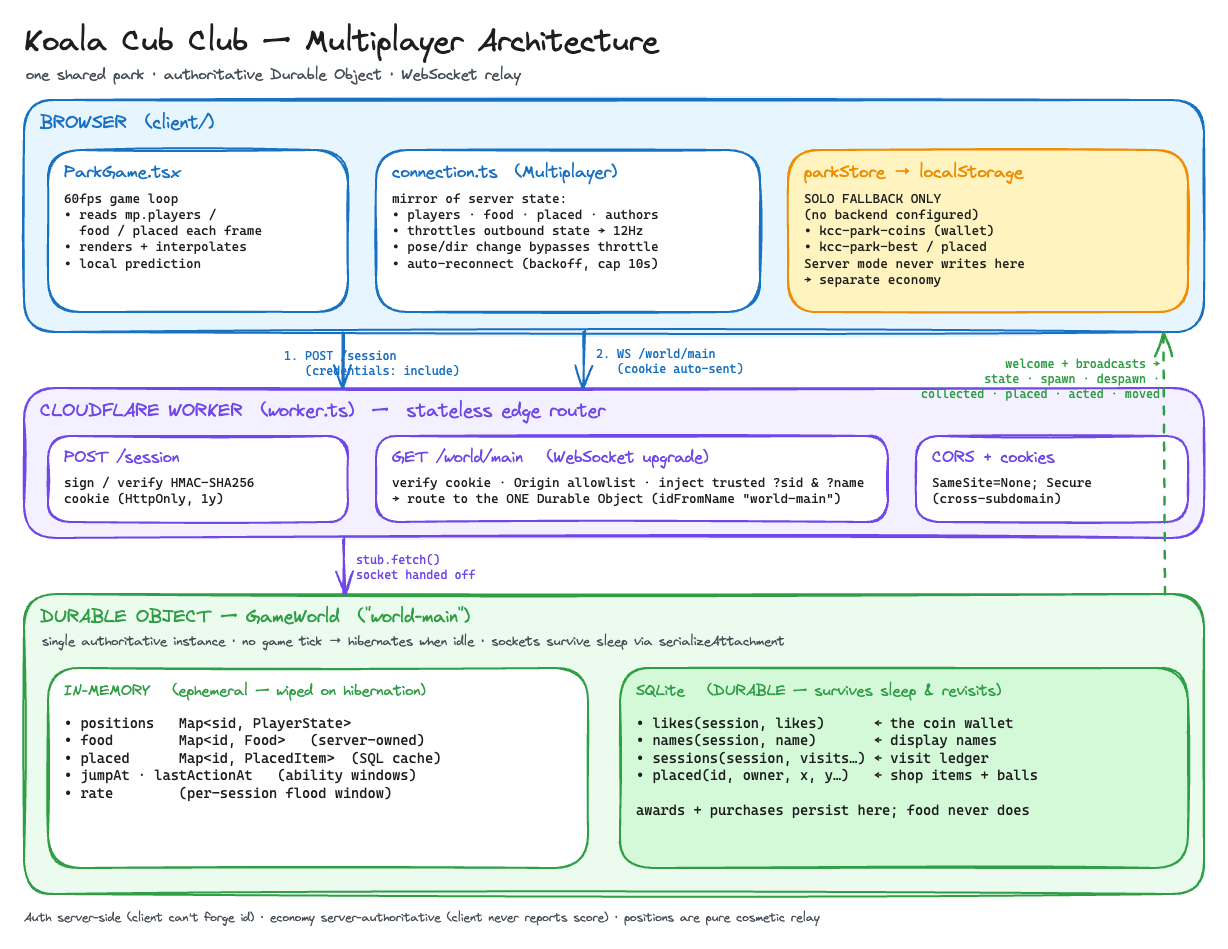
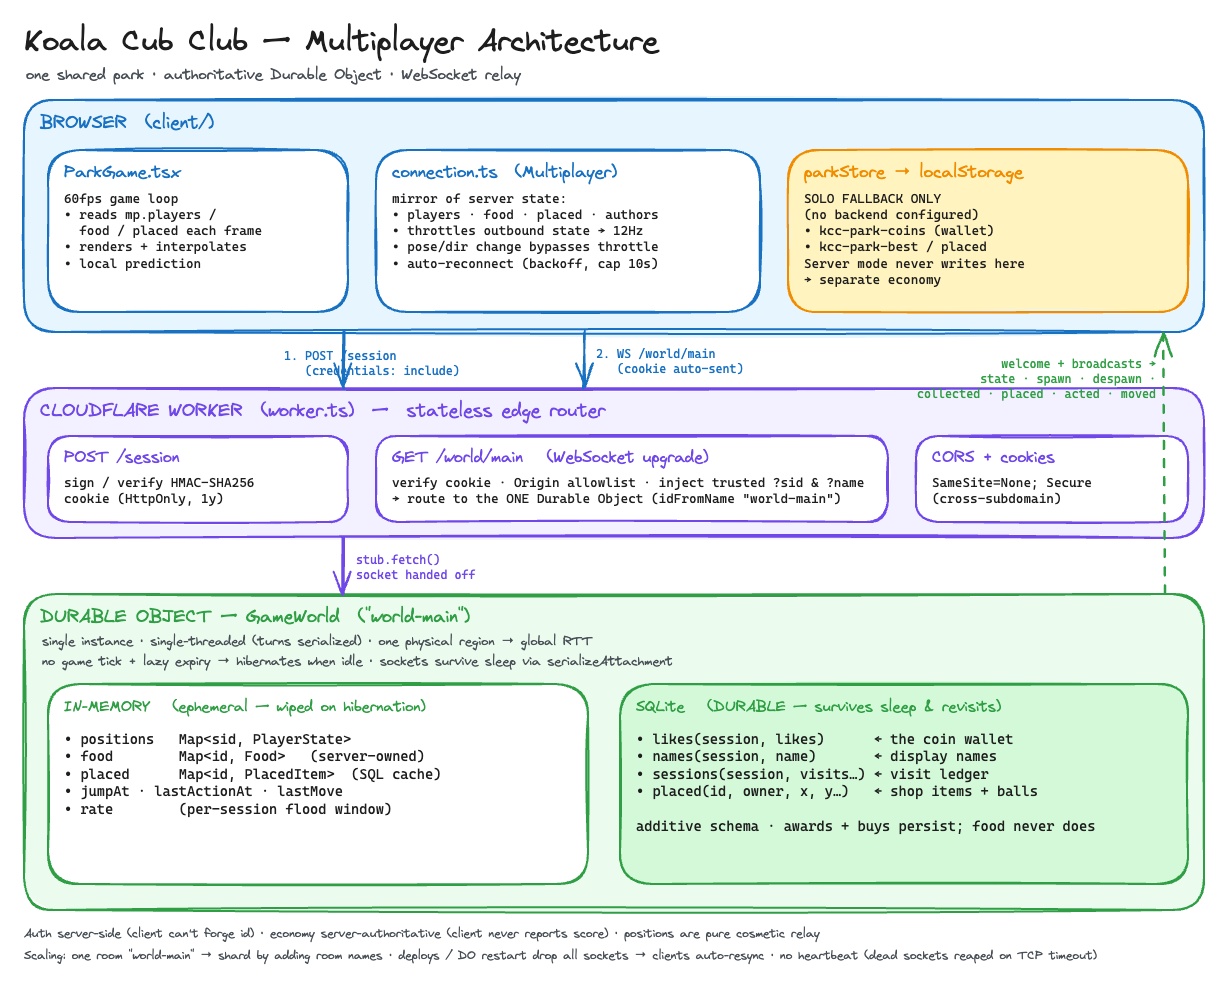
docs(multiplayer): capture operational notes + refresh diagram
Add operational notes and the remaining known gaps: single-region /
global RTT + single-threaded consistency, deploys drop all sockets, no
connection heartbeat (ghost players), the multi-tab broadcast quirk,
semi-trusted ball pushes, unmoderated names, additive-only schema,
anonymous device-local identity, and the DO test pattern. Refresh the
speed-cheat entry to reference PR #81 (lastMove + clampToSpeed) and its
hibernation-wake baseline reset.

Regenerate the embedded Excalidraw diagram to note single-instance /
single-threaded / one-region on the DO, add lastMove to in-memory state,
and a scaling/deploy/heartbeat footer.

Changed region(s): [[0.0, 0.0306, 0.9902, 0.8556], [0.0, 0.764, 0.9902, 0.9779], [0.4642, 0.764, 0.4951, 0.7945]]

diff --git a/docs/multiplayer.md b/docs/multiplayer.md
@@ -126,7 +126,7 @@ peers animate. `jump` additionally opens that session's airborne-collect window.
 |---|---|---|
 | positions | in-memory `Map` | No — repopulated from attachments / spawn |
 | food | in-memory `Map` | No — refills on next traffic |
-| jumpAt / lastActionAt / rate | in-memory `Map` | No |
+| jumpAt / lastActionAt / lastMove / rate | in-memory `Map` | No — `lastMove` reset on wake is intentional (see [Known gaps](#known-gaps--future-hardening)) |
 | placed (cache) | in-memory `Map` | Rehydrated from SQLite |
 | **likes** (wallet) | **SQLite** | Yes |
 | **names** | **SQLite** | Yes |
@@ -209,19 +209,18 @@ deployed backend makes players' solo savings appear to vanish.
 
 ## Known gaps / future hardening
 
-- **Movement speed isn't validated** — only bounds are. Because the collect proximity
-  check compares against the position the client itself reported, a determined cheater
-  could "teleport" (within bounds) next to a food via a `state` message and then collect
-  it. This is a deliberate trade-off (positions are cosmetic; likes have no real value),
-  but it's the one real economy hole.
-
-  A proportionate fix, using the same ephemeral-map pattern as `jumpAt`: track the last
-  accepted position + server-receive timestamp per session, and **clamp** (never reject)
-  a new `state` to the farthest reachable point along the vector. Derive the budget from
-  the walk speed (`0.0021` tiles/ms) times `dt`, plus a `DASH_TILES` allowance while a
-  dash window is live, with generous slack to avoid rubber-banding honest laggy players.
-  Lift the walk-speed constant into `shared/protocol.ts` so both sides agree. This
-  degrades "teleport-collect" to "walk at legal speed," i.e. fair play.
+- **Movement speed** was historically unvalidated — only bounds were. Because the
+  collect proximity check compares against the position the client itself reported, a
+  cheater could "teleport" (within bounds) next to a food via a `state` message and then
+  collect it. Being addressed in PR #81 (`feat/anticheat-speed`): a per-session
+  `lastMove` map + `clampToSpeed()` cap each `state` step to `MOVE_SPEED_TILES_PER_MS ×
+  dt × slack`, plus a one-off `DASH_TILES` allowance during a live dash window. It
+  **clamps** (never rejects) so honest laggy players don't rubber-band. Note the
+  interaction with hibernation: `lastMove` is *not* rehydrated on wake — a missing entry
+  (first update / respawn / hibernation wake) resets the baseline, so the first
+  post-wake `state` is accepted unclamped and clamping resumes from the next one. That
+  mirrors why `positions` is restored from attachments: clamp what's cheatable, but
+  never punish honest clients.
 
 - **Protocol version isn't enforced.** `PROTOCOL_VERSION` is written into the socket
   attachment but never compared, so a breaking wire change has no handshake guard yet.
@@ -234,4 +233,51 @@ deployed backend makes players' solo savings appear to vanish.
 
 - **Single global room.** Everyone routes to `idFromName("world-main")`: one DO instance,
   one SQLite, one single-threaded turn loop, O(players) broadcasts. Sharding would mean
-  more room names — but then presence/economy stop being global.
+  more room names (`worker.ts` has a single `ROOM` constant) — but then presence/economy
+  stop being global. This is the one architectural fork worth deciding deliberately.
+
+- **No connection heartbeat.** The DO doesn't use `setWebSocketAutoResponse` or any
+  server-side ping. A silently-dead connection (network vanished without a clean close)
+  is only reaped when the edge's TCP timeout fires `webSocketClose`, so a disappeared
+  player can linger as a "ghost" in everyone else's roster until then.
+
+- **Multi-tab broadcast quirk.** `broadcast(msg, exceptId)` excludes by **session id**,
+  not socket. Two tabs share one session, so your own `state`/`acted`/`pushed` are
+  withheld from *both* your sockets — the two tabs won't sync to each other (each renders
+  its own local cat). Harmless, but surprising when debugging with two tabs.
+
+- **Balls are semi-trusted.** `push` writes the client-reported position straight to
+  memory (bounds-clamped only) and relays it; only `rest` persists a rounded tile. A
+  hostile client could relocate a ball to any in-bounds tile via `push` — cosmetic, and
+  it self-heals on the next `rest`. Velocity is clamped (`MAX_BALL_SPEED`); position is
+  not speed-checked the way player movement is.
+
+- **Names are charset-sanitized, not moderated.** `sanitizeName` allows Unicode
+  letters/numbers + a little punctuation and caps length, but there's no profanity/abuse
+  filter — and names are visible to everyone and attached to placed items.
+
+- **Schema is additive-only.** Tables use `CREATE TABLE IF NOT EXISTS`; there's no
+  migration framework. Adding a column later means a manual `ALTER`/new-table dance — the
+  wrangler `migrations` block only governs the DO *class*, not the table schema.
+
+## Operational notes
+
+- **Single region → global RTT.** A Durable Object lives in one physical location, so
+  every player worldwide connects to that one point; far-away players see higher latency.
+  There's no multi-region replication. The upside of "single instance" is that it's
+  **single-threaded** — all mutations are serialized, which is exactly why the atomic
+  food claim (`food.delete` before award) is race-free.
+
+- **Deploys are a brief blip for everyone.** Shipping new Worker/DO code evicts the
+  running instance and drops all WebSockets; clients reconnect (deterministic backoff,
+  no jitter → lockstep waves) and get a fresh `welcome` resync. Durable state survives,
+  so it self-heals.
+
+- **Identity is anonymous and device-local.** A per-browser signed cookie — no account,
+  no cross-device sync. Clearing cookies (or rotating `SESSION_SECRET`) yields a new
+  session and a fresh wallet.
+
+- **Tests poke DO internals.** `server/test/world.test.ts` drives the DO via
+  `runInDurableObject` (e.g. the speed-cap tests raise `moveSpeed` in-place for
+  movement-heavy setup); `client/src/multiplayer/connection.test.ts` covers the client.
+  Follow that pattern when adding server behavior.